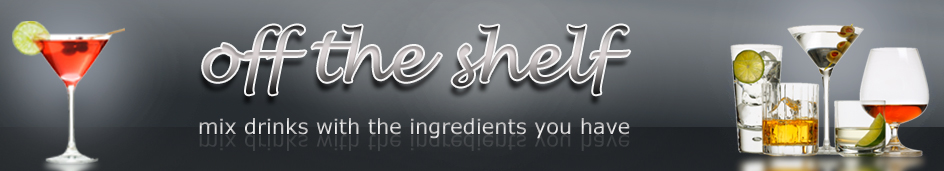
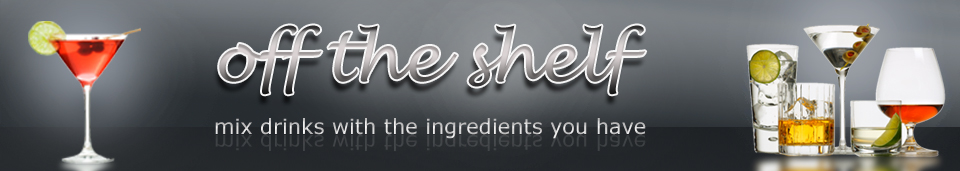
header image

diff --git a/public/stylesheets/common.css b/public/stylesheets/common.css
@@ -10,7 +10,7 @@ h2 {font-family: Verdana, Arial, Helvetica, sans-serif; font-size:1.0em; color:#
 .clear {clear: both;}
 
 #wrapper {width: 960px; margin: 0 auto; background-color: #070709; border: 2px solid #727274; }
-#banner_top {background-image:url(../images/header3.jpg); margin: 0; height: 279px; padding-top:100px;}
+#banner_top {background-image:url(../images/header3.jpg) background-repeat: no-repeat; margin: 0; height: 171px;}
 #search_wrap {float:right; height: 25px; width: 330px; margin: 10px 10px 0 0;}
 #your_shelf {color: #ffffff;}
 
